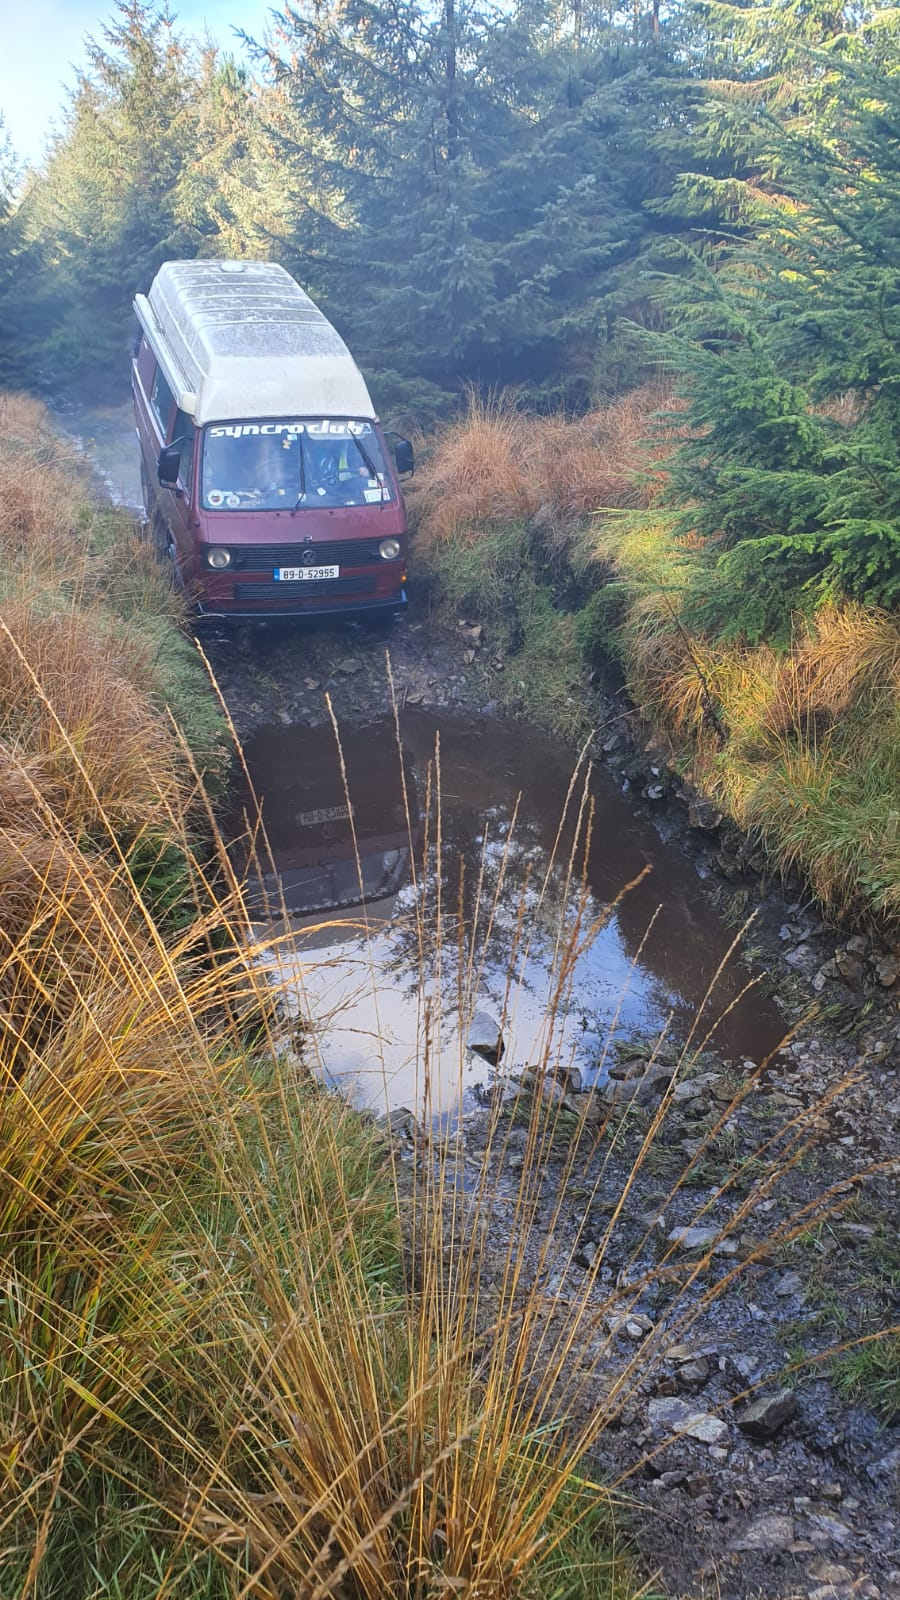
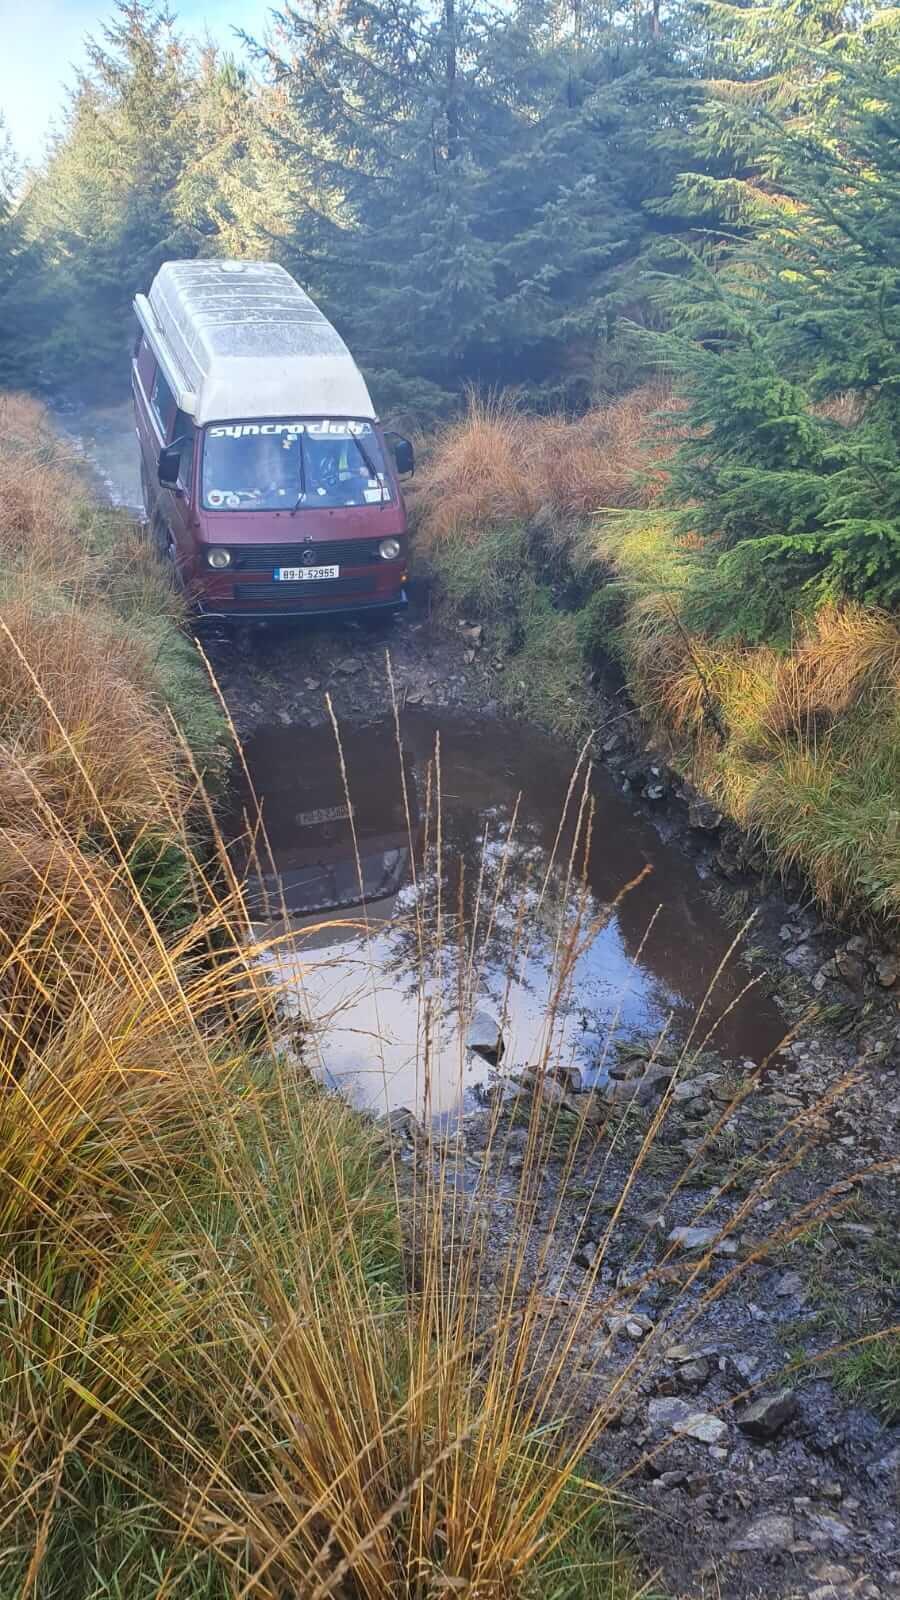
docs: compressed images for README

Changed region(s): [[0.1867, 0.5625, 0.28, 0.6562], [0.0311, 0.5625, 0.0622, 0.625], [0.1244, 0.625, 0.1556, 0.6562]]

diff --git a/events.html b/events.html
@@ -95,13 +95,13 @@
                     We're just back from Syncropendence 2021.
                 </p>
                 <br>
-                <p>Our Syncronaut friends in the UK never disappoint to organise a great event,
-                    and his year was no exception. We took in the splendour of the Welsh border country.
-                    A fantastic time was had by all.  A big 'Thank you!' to all involved.
+                <p>Our Syncronaut friends in the UK never fail to organise a great event,
+                    and this year was no exception. We took in the splendour of the Welsh border country.
+                    A fantastic time was had by all. We'll share some pictures here soon. A big 'Thank you!' to all involved.
                 </p>
                 <br>
                 <p>
-                    blah. change this. We hope to see you all at Syncro Ireland next year.
+                    It goes without saying that you are all invited to Syncro Ireland next year, so we hope you can make it. 
                 </p>
             </div>
         </div>

diff --git a/index.html b/index.html
@@ -55,7 +55,7 @@
                 </p>
                 <br>
                 <p>
-                    News about upcoming and past events can be found on our <a class="inline-link" href="events.html">events page.</a>
+                    Full details and news about upcoming and past events can be found on our <a class="inline-link" href="events.html">events page.</a>
                 </p>
                 <br>
                 <p>
